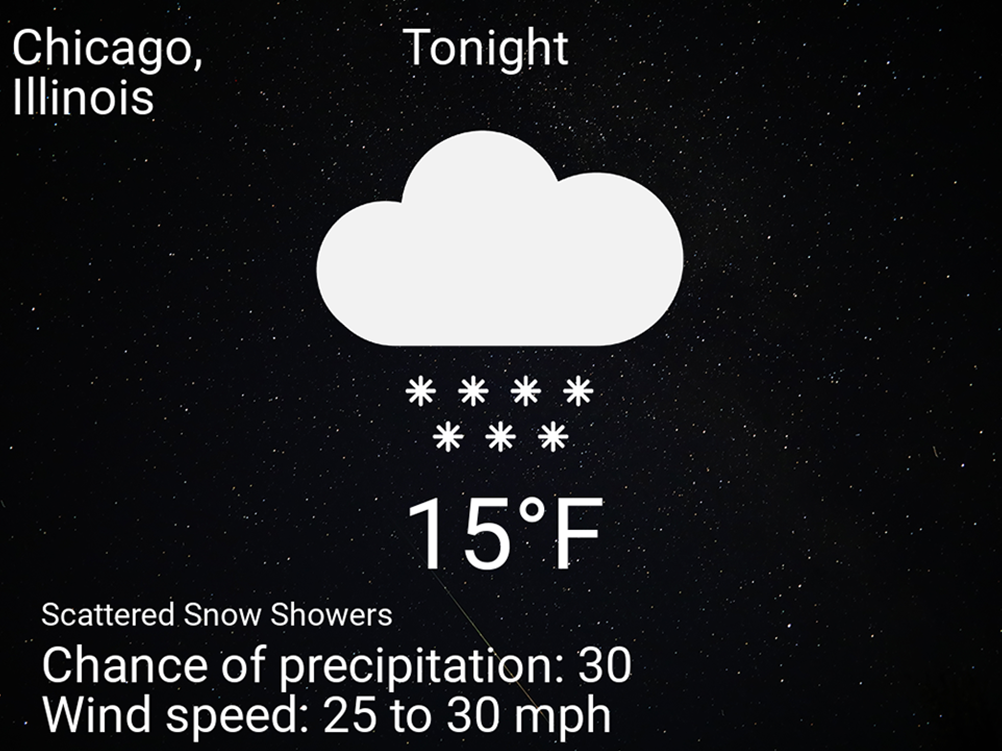
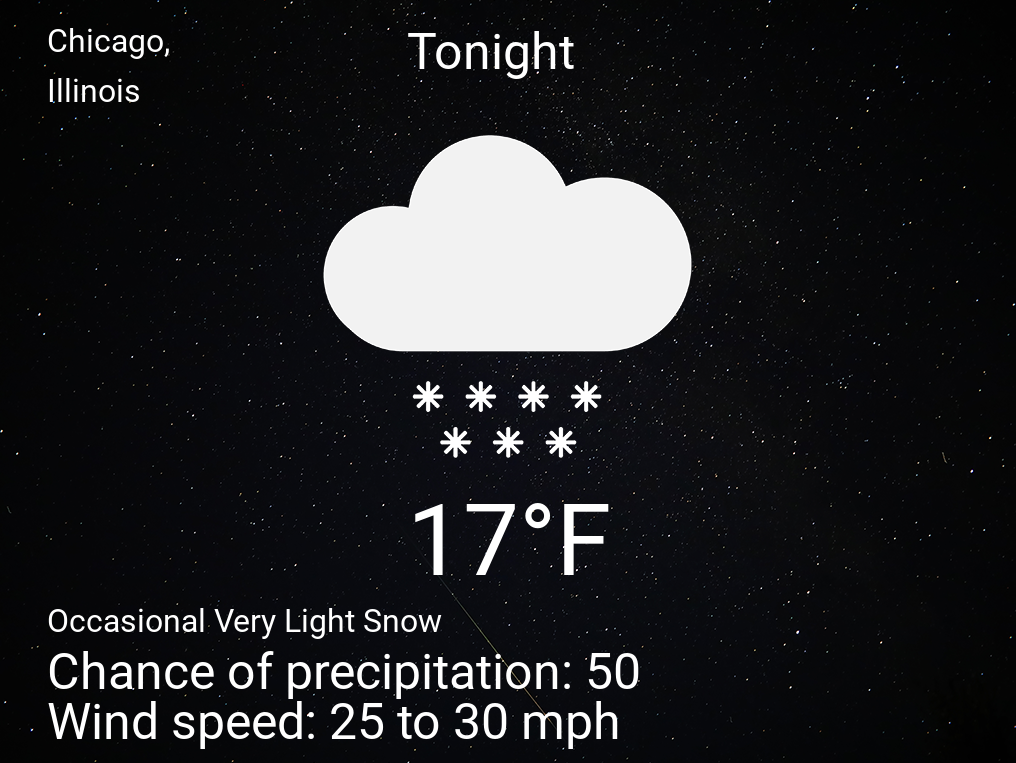
Add files via upload

diff --git a/sdl_weather_app.py b/sdl_weather_app.py
@@ -143,6 +143,7 @@ class Forecast:
 
         # Prepare sprites to be rendered
         weather_icon = self.get_weather_icon(forecast, factory, RESOURCES, font_path, color)
+        icon_width, icon_height = weather_icon.size
 
         current_temperature_text = str(forecast["properties"]["periods"][0]["temperature"])  + "°F"
         current_temperature_sprite = factory.from_text(current_temperature_text, 
@@ -158,9 +159,9 @@ class Forecast:
             fontmanager = font_manager, color = color)
 
         city_sprite = factory.from_text(forecast["city"] + ",", 
-            fontmanager = font_manager, color = color)
+            fontmanager = font_manager_small, color = color)
         state_sprite = factory.from_text(forecast["state"], 
-            fontmanager = font_manager, color = color)
+            fontmanager = font_manager_small, color = color)
 
         current_period = forecast["properties"]["periods"][0]["name"]
         current_period_sprite = factory.from_text(current_period, 
@@ -174,8 +175,8 @@ class Forecast:
         # Render the current weather conditions
         print(forecast["properties"]["periods"][0]["detailedForecast"])
         sprite_renderer.render(background_sprite)
-        sprite_renderer.render(city_sprite, 20, y - 360)
-        sprite_renderer.render(state_sprite, 20, y - 310)
+        sprite_renderer.render(city_sprite, 50, y - 360)
+        sprite_renderer.render(state_sprite, 50, y - 310)
         sprite_renderer.render(current_period_sprite, x - temperature_width // 2, y - 360)
         sprite_renderer.render(current_temperature_sprite, x - temperature_width // 2, y + 100)
         sprite_renderer.render(short_forecast, 50, y + 220)
@@ -184,7 +185,6 @@ class Forecast:
         if (self.isClear):
             sprite_renderer.render(weather_icon, x - icon_width // 2, y - 120)
         else:
-            icon_width, icon_height = weather_icon.size
             sprite_renderer.render(weather_icon, x - icon_width // 2, y - 370)
 
         # Play music file indefinitely
